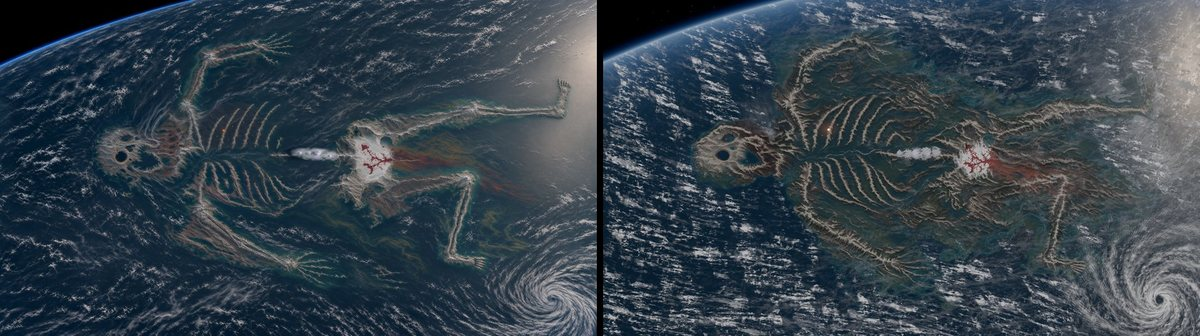
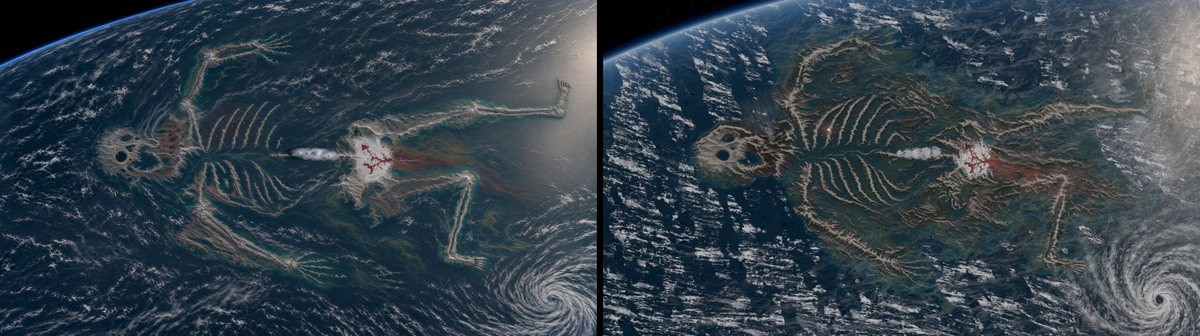
Status 100: the narration is made, the animatic with all eight clips handed over

diff --git a/kit/PROGRESS.md b/kit/PROGRESS.md
@@ -24,25 +24,25 @@ The Builder's memory. Read it at the start of every task and after every compact
 
 The pictures of the newest status, with their captions and the time. Files are in `out/stills/status/`.
 
-Status 99, 2026-11-26 07:52 UTC:
+Status 100, 2026-11-26 08:15 UTC:
 
-- `01-reveal4.jpg`: The Reveal from orbit: approved left, built right (the owner's heartbeat of 07:44, draft tier)
-- `02-est.jpg`: The establishing frame of every place and the titan frame, as built on main (version 2, draft tier)
-- `03-spine3.jpg`: The Spine, the strike on the third spire: approved left, built right (heartbeat of 07:50, draft tier)
-- `04-ribs.jpg`: The Ribs, heartbeat of 07:46: the wet flat, the nesting crag, the bore (draft tier)
+- `01-reveal4.jpg`: The Reveal from orbit, version 3: approved left, built right (draft tier)
+- `02-eye.jpg`: The Eye, heartbeat of 08:05: approved left, built right; the wide view above, what rises from the centre below (final tier)
+- `03-ribs.jpg`: The Ribs, the bore arrives: approved left, built right at final tier with two native crops (heartbeat of 08:03)
+- `04-voice.jpg`: The eight narration clips as kept: each clip's waveform with its four lines marked
 
+Status 99, 2026-11-26 07:52 UTC, showed: The Reveal from orbit: approved left, built right (the owner's heartbeat of 07:44, draft tier); The establishing frame of every place and...
 Status 98, 2026-11-26 07:29 UTC, showed: The Breath, the rim: approved left, built right (version 2, draft tier); The Eye, the edge where the floor stops: approved left, built...
 Status 97, 2026-11-26 07:07 UTC, showed: The Ribs, wide view, approved left, heartbeat of 06:50 right: the flat is wet now with bands that mirror the sky, the blades are bedded...
-Status 96, 2026-11-26 06:10 UTC, showed: The Eye's drinkers, approved left, wave 3 version 1 right: coats, weight on the legs, mirrored in the water.
 
 ## Clock
 
 Copied from the last tick of `npm run clock`.
 
 ```
-2026-11-26T07:52:56Z
-phase 4: 11.70 h used of 17.00 h
-build: 32.03 h used of 72.00 h
+2026-11-26T08:15:38Z
+phase 4: 12.08 h used of 17.00 h
+build: 32.41 h used of 72.00 h
 extra rounds: yes
 half point: reached
 minutes since the last status: 23

diff --git a/out/stills/status/STATUS.md b/out/stills/status/STATUS.md
@@ -1,8 +1,8 @@
-# Status 99
+# Status 100
 
-2026-11-26 07:52 UTC. Phase 4, the other places and the rise.
+2026-11-26 08:15 UTC. Phase 4, the other places and the rise.
 
-- `01-reveal4.jpg`: The Reveal from orbit: approved left, built right (the owner's heartbeat of 07:44, draft tier)
-- `02-est.jpg`: The establishing frame of every place and the titan frame, as built on main (version 2, draft tier)
-- `03-spine3.jpg`: The Spine, the strike on the third spire: approved left, built right (heartbeat of 07:50, draft tier)
-- `04-ribs.jpg`: The Ribs, heartbeat of 07:46: the wet flat, the nesting crag, the bore (draft tier)
+- `01-reveal4.jpg`: The Reveal from orbit, version 3: approved left, built right (draft tier)
+- `02-eye.jpg`: The Eye, heartbeat of 08:05: approved left, built right; the wide view above, what rises from the centre below (final tier)
+- `03-ribs.jpg`: The Ribs, the bore arrives: approved left, built right at final tier with two native crops (heartbeat of 08:03)
+- `04-voice.jpg`: The eight narration clips as kept: each clip's waveform with its four lines marked
